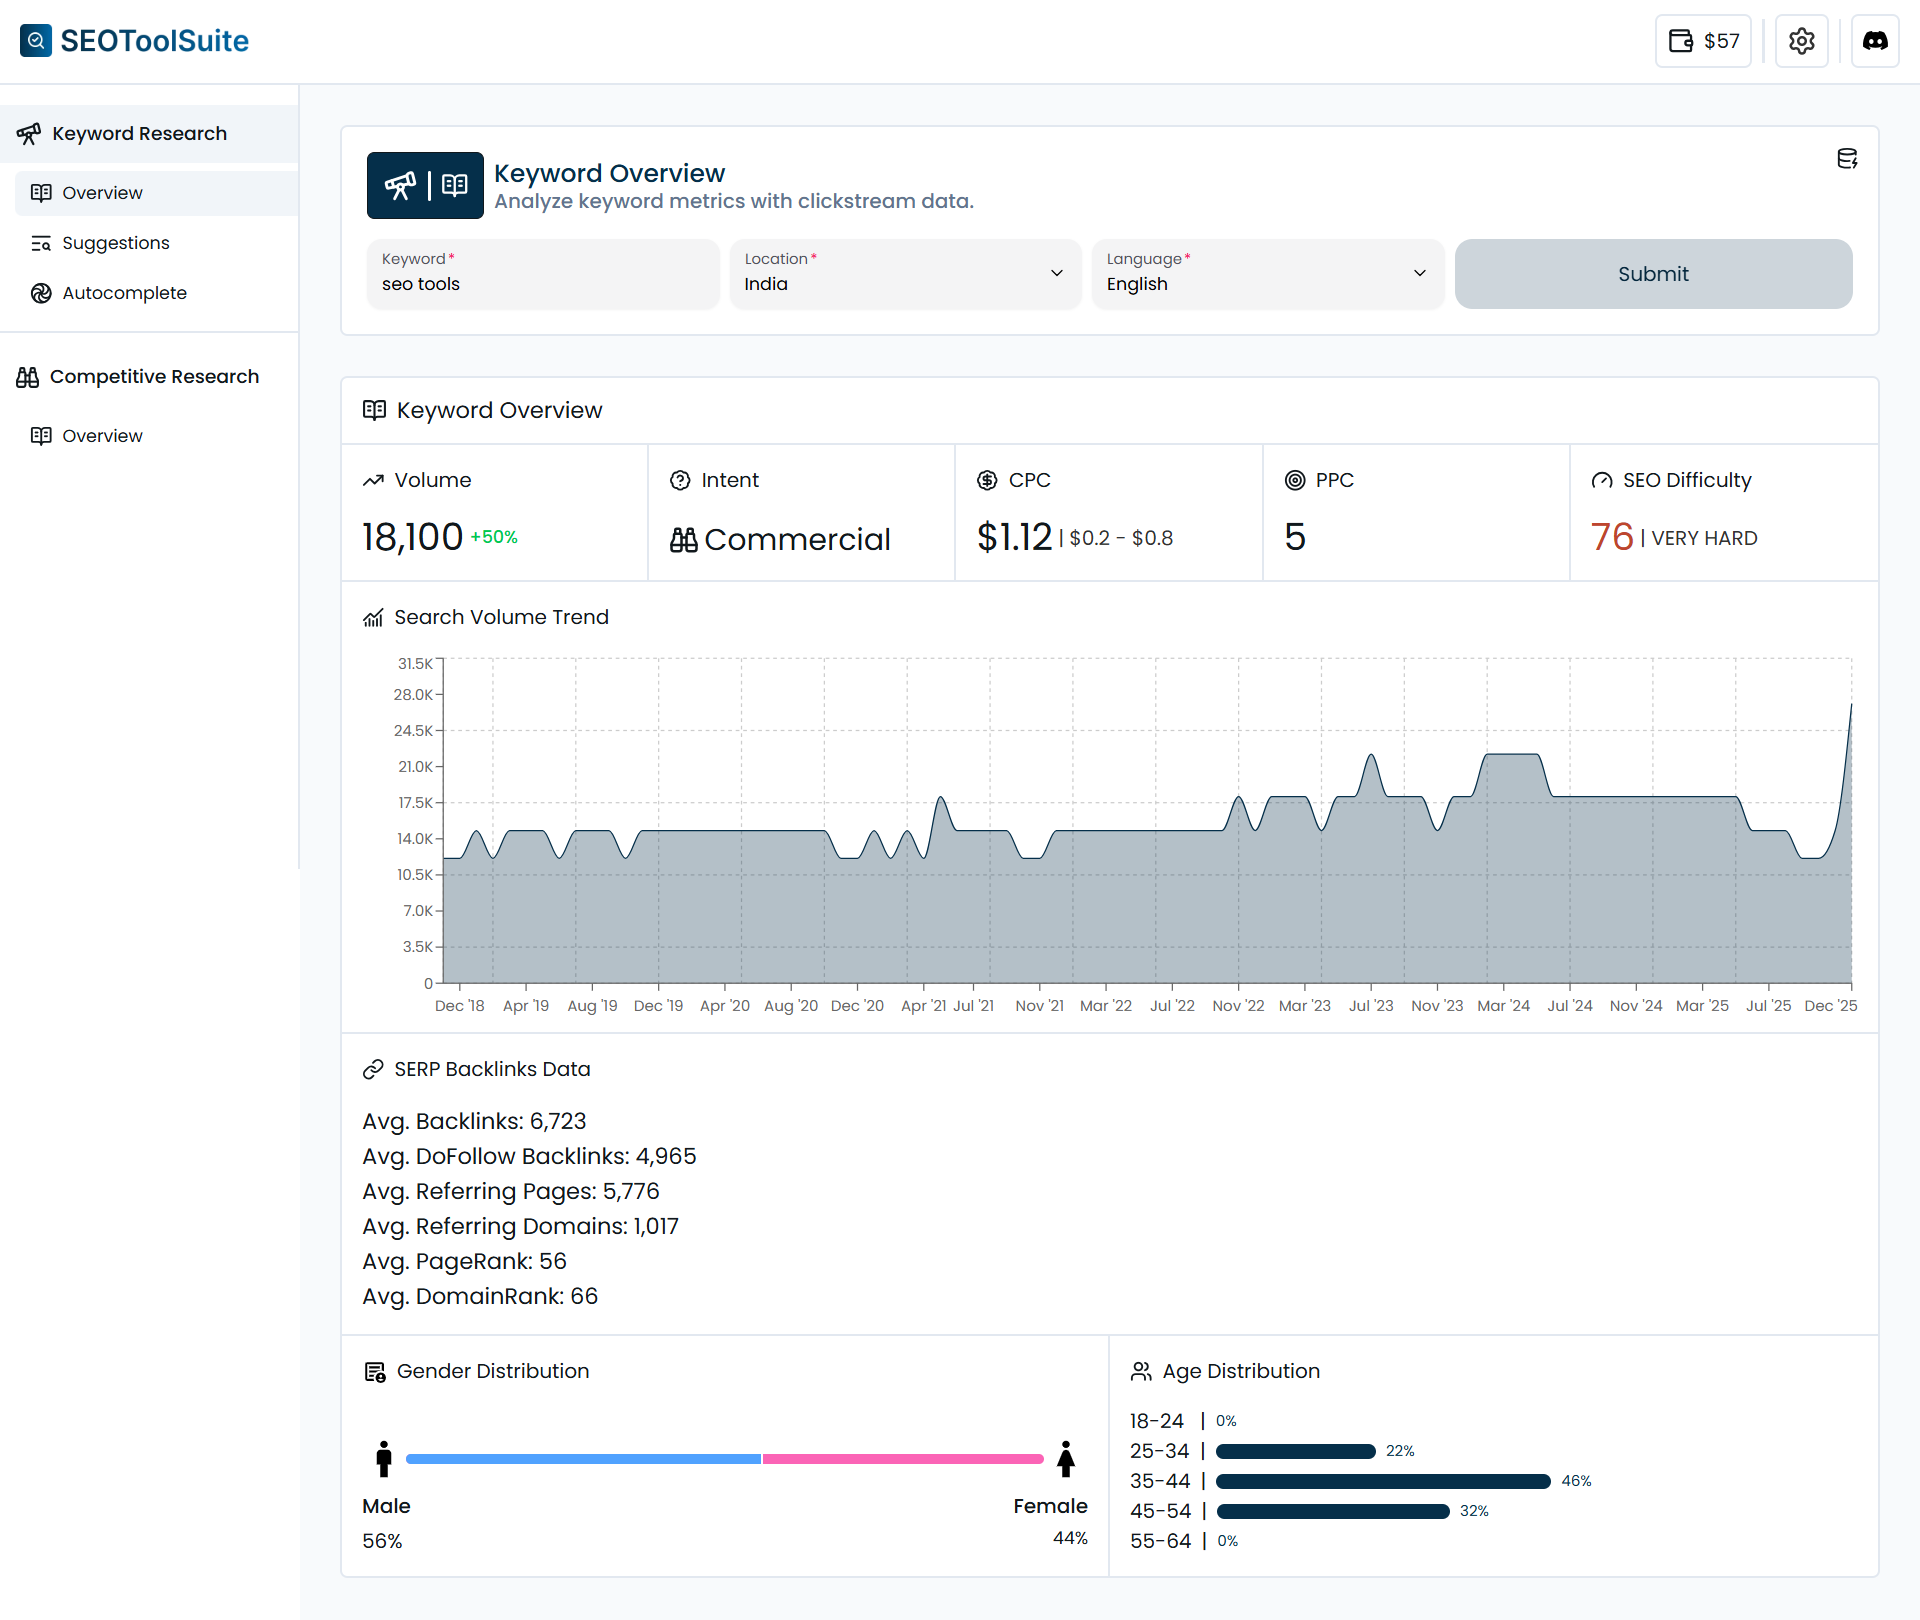
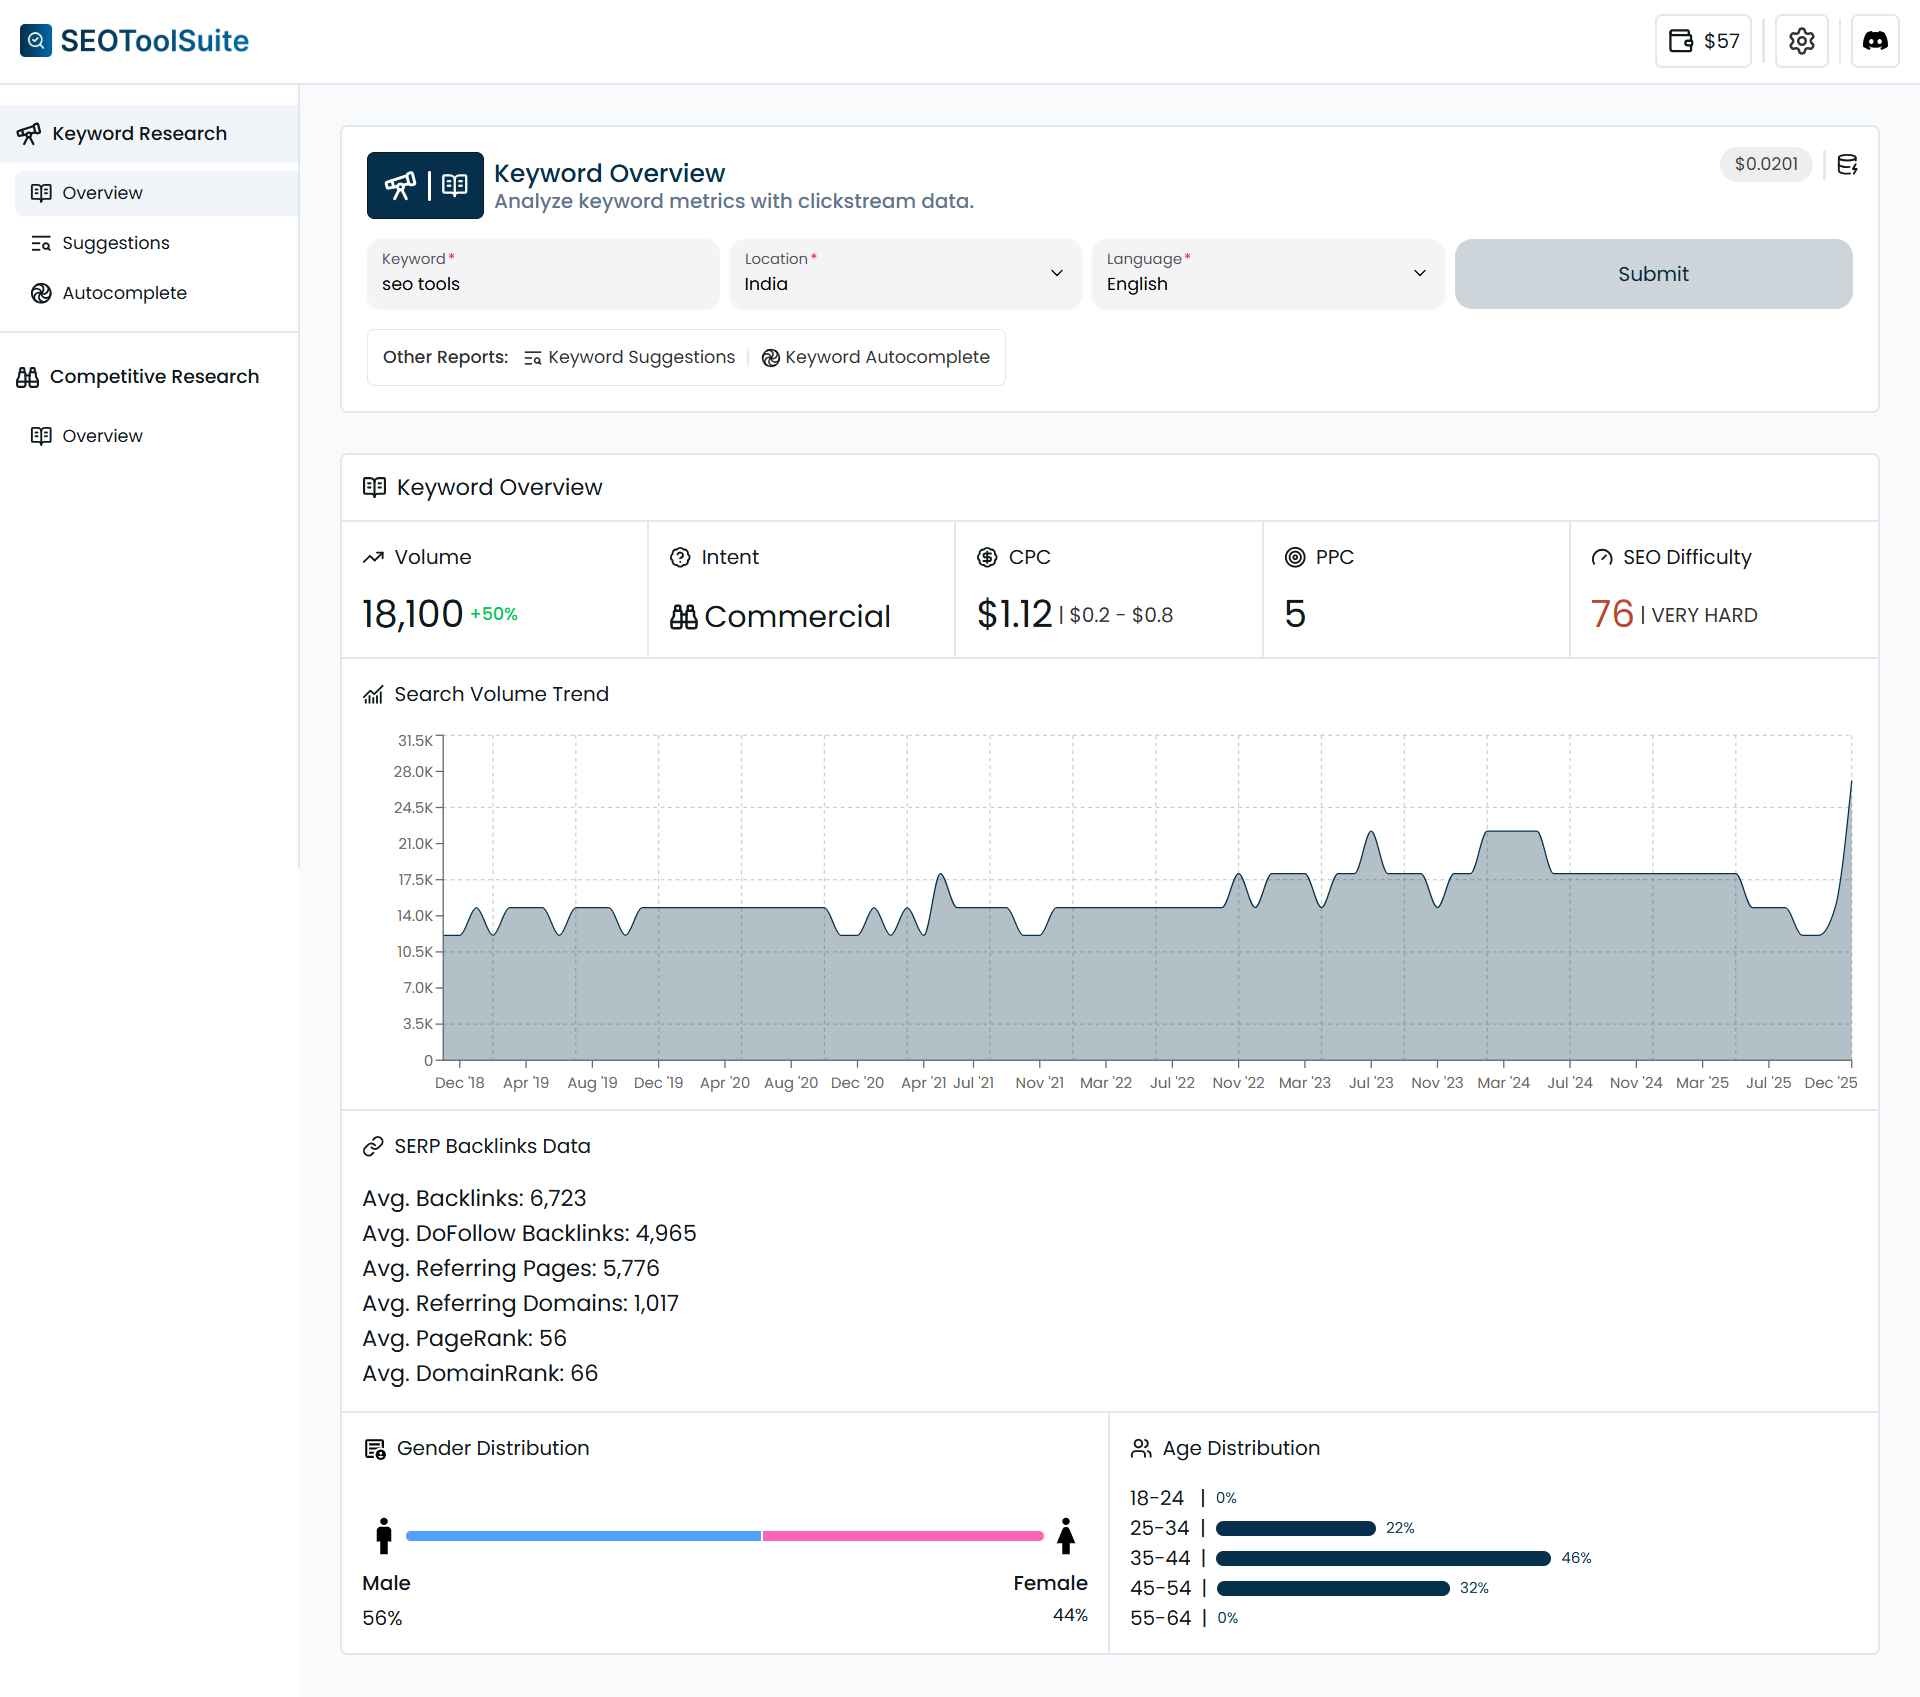
chore: update files for v4.1.0 release

diff --git a/src/env/index.ts b/src/env/index.ts
@@ -1,1 +1,1 @@
-export const APP_VERSION: string = "4.0.0";
+export const APP_VERSION: string = "4.1.0";

diff --git a/README.md b/README.md
@@ -1,6 +1,6 @@
 ![SEOToolSuite](docs/assets/logo.png)
 
-SEOToolSuite provides **free and open source SEO tools for everyone**. Keyword research and more, powered by DataForSEO.
+SEOToolSuite provides **free and open source SEO tools for everyone**. Keyword research, competitive research, and more, powered by DataForSEO.
 
 [**Get Started**](https://seotoolsuite.nitishkgupta.com/tools) - [**Changelog**](CHANGELOG.md) - [**DataForSEO Account (Free 1$ Credits)**](https://dataforseo.com/?aff=44560) - [**Discord Server**](https://discord.gg/Wt4RN4Xy8n)
 
@@ -40,6 +40,7 @@ The Traffic Overview tool analyzes a website’s organic and paid search perform
 ## 📋 Prerequisites
 
 - [DataForSEO API](https://dataforseo.com/?aff=44560) (for tools using DataForSEO APIs)
+- [Upstash Redis](https://upstash.com) (for data caching)
 - Node.js (for localhost/server deployment)
 
 ## 🚀 Getting Started

diff --git a/CHANGELOG.md b/CHANGELOG.md
@@ -1,5 +1,16 @@
 # SEOToolSuite Changelog
 
+## v4.1.0
+
+- Added an **Other Reports** section to the SEO tools.
+- Added a **Credits Cost** badge to the tools that use DataForSEO APIs.
+- Added a new **Words** column to the Keyword Suggestions tool DataGrid, which can be toggled via the columns setting.
+- Updated **Keyword Quick Actions** in the Keyword Suggestions and Keyword Autocomplete tools.
+- Minor UI improvements and bug fixes.
+- Updated the homepage with minor content changes.
+- Updated the README with minor content changes.
+- Updated packages.
+
 ## v4.0.0
 
 - Add a new **Traffic Overview** tool. Analyze a website’s organic and paid search performance.
